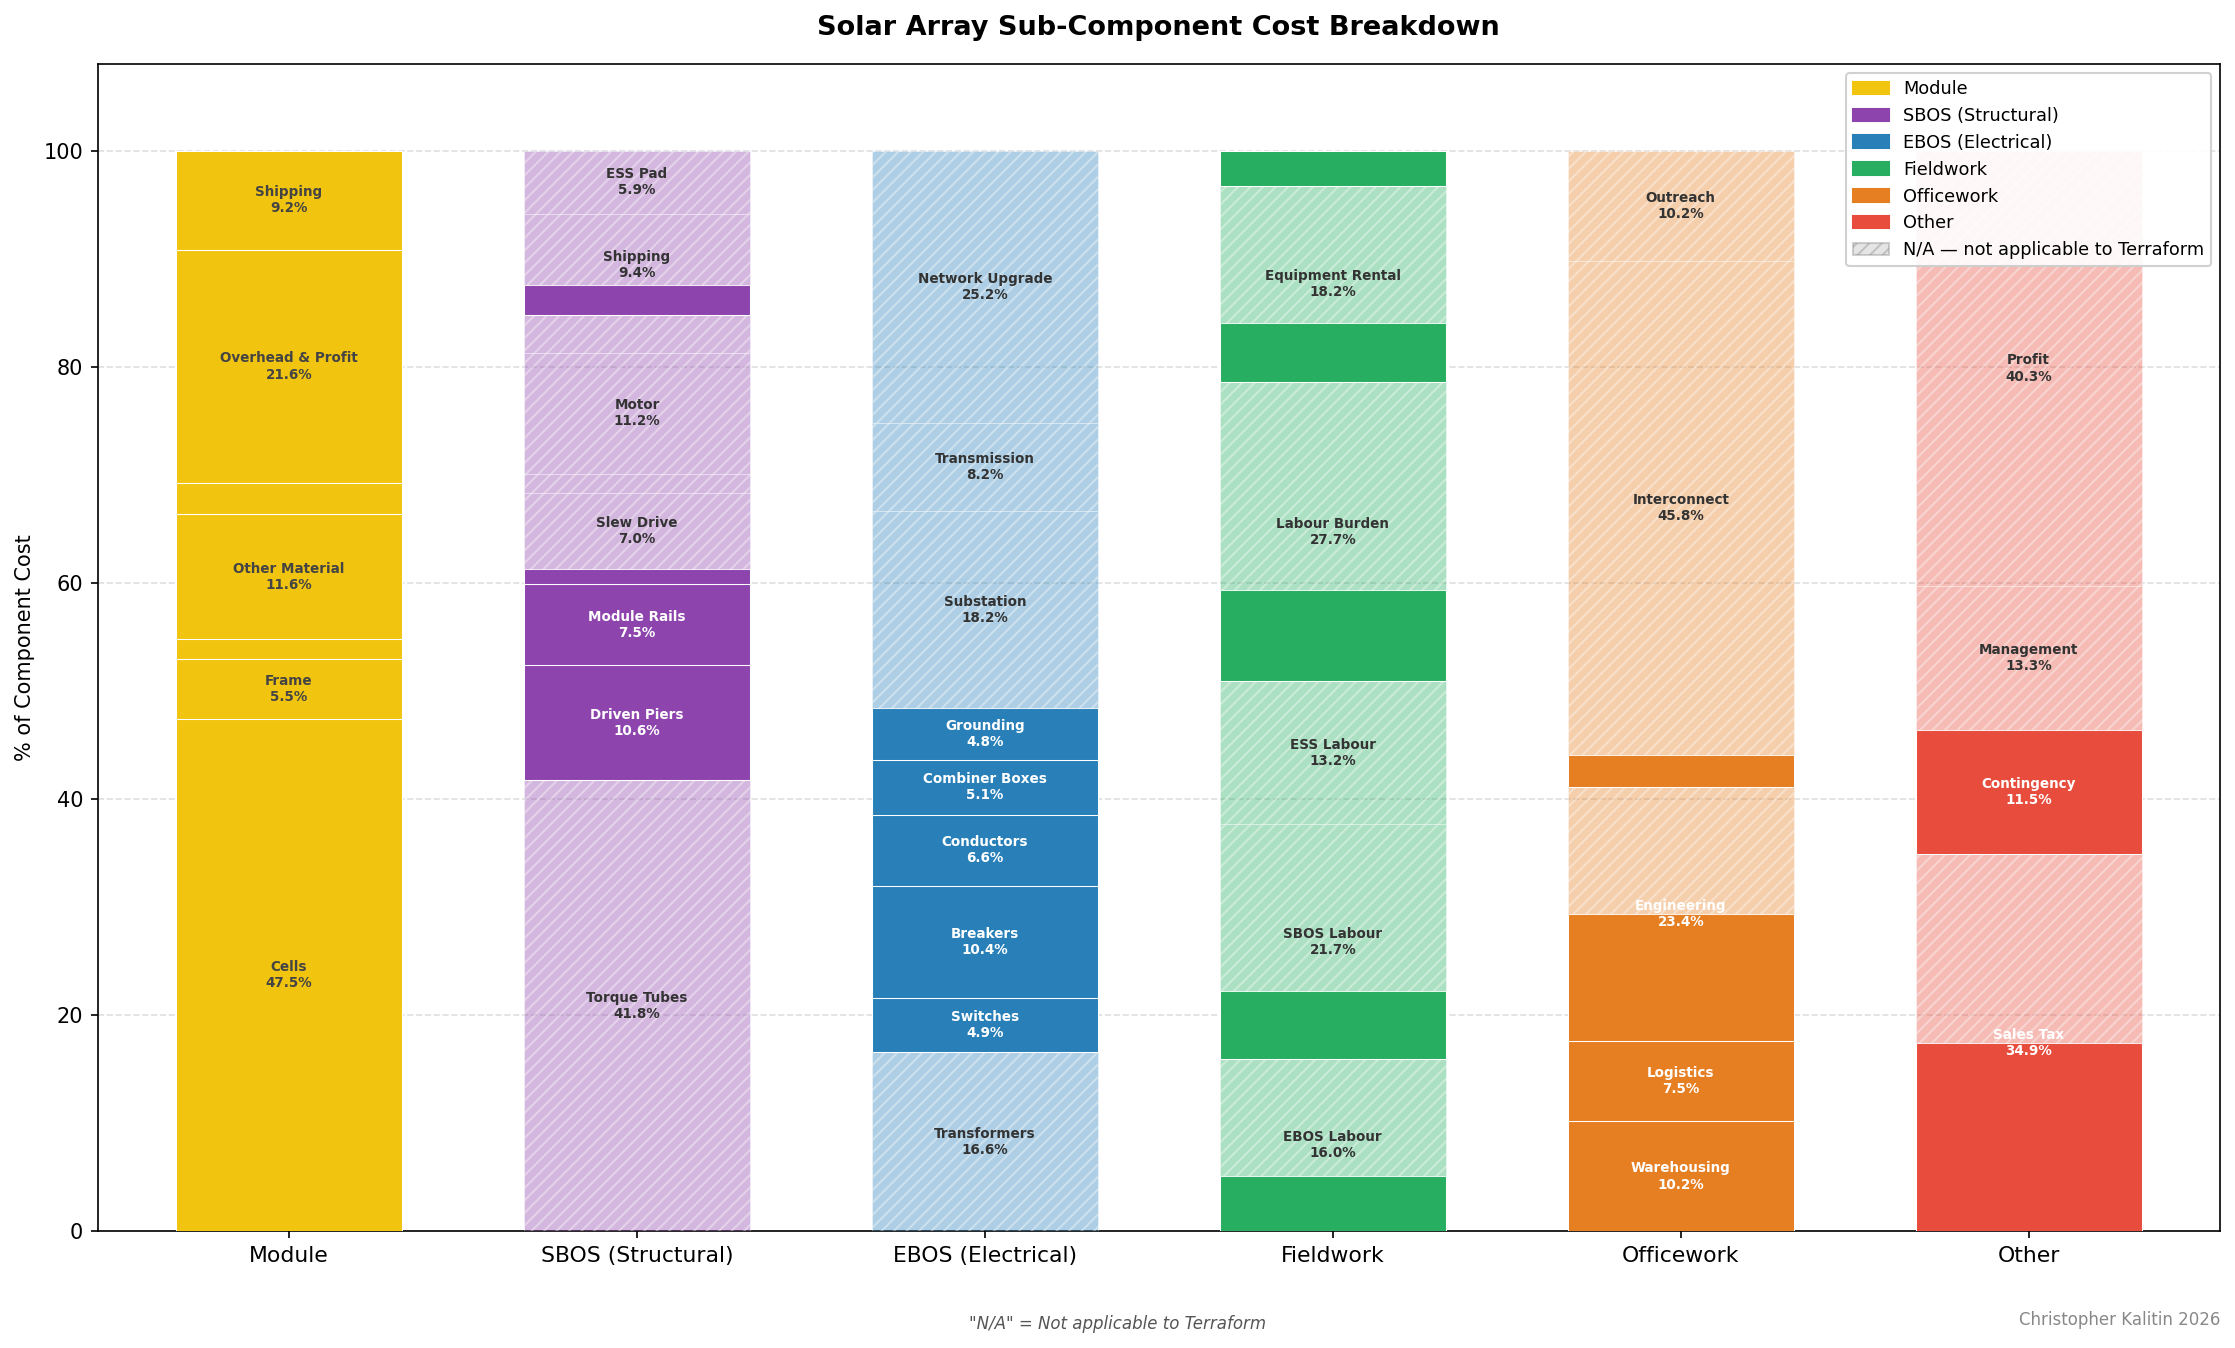
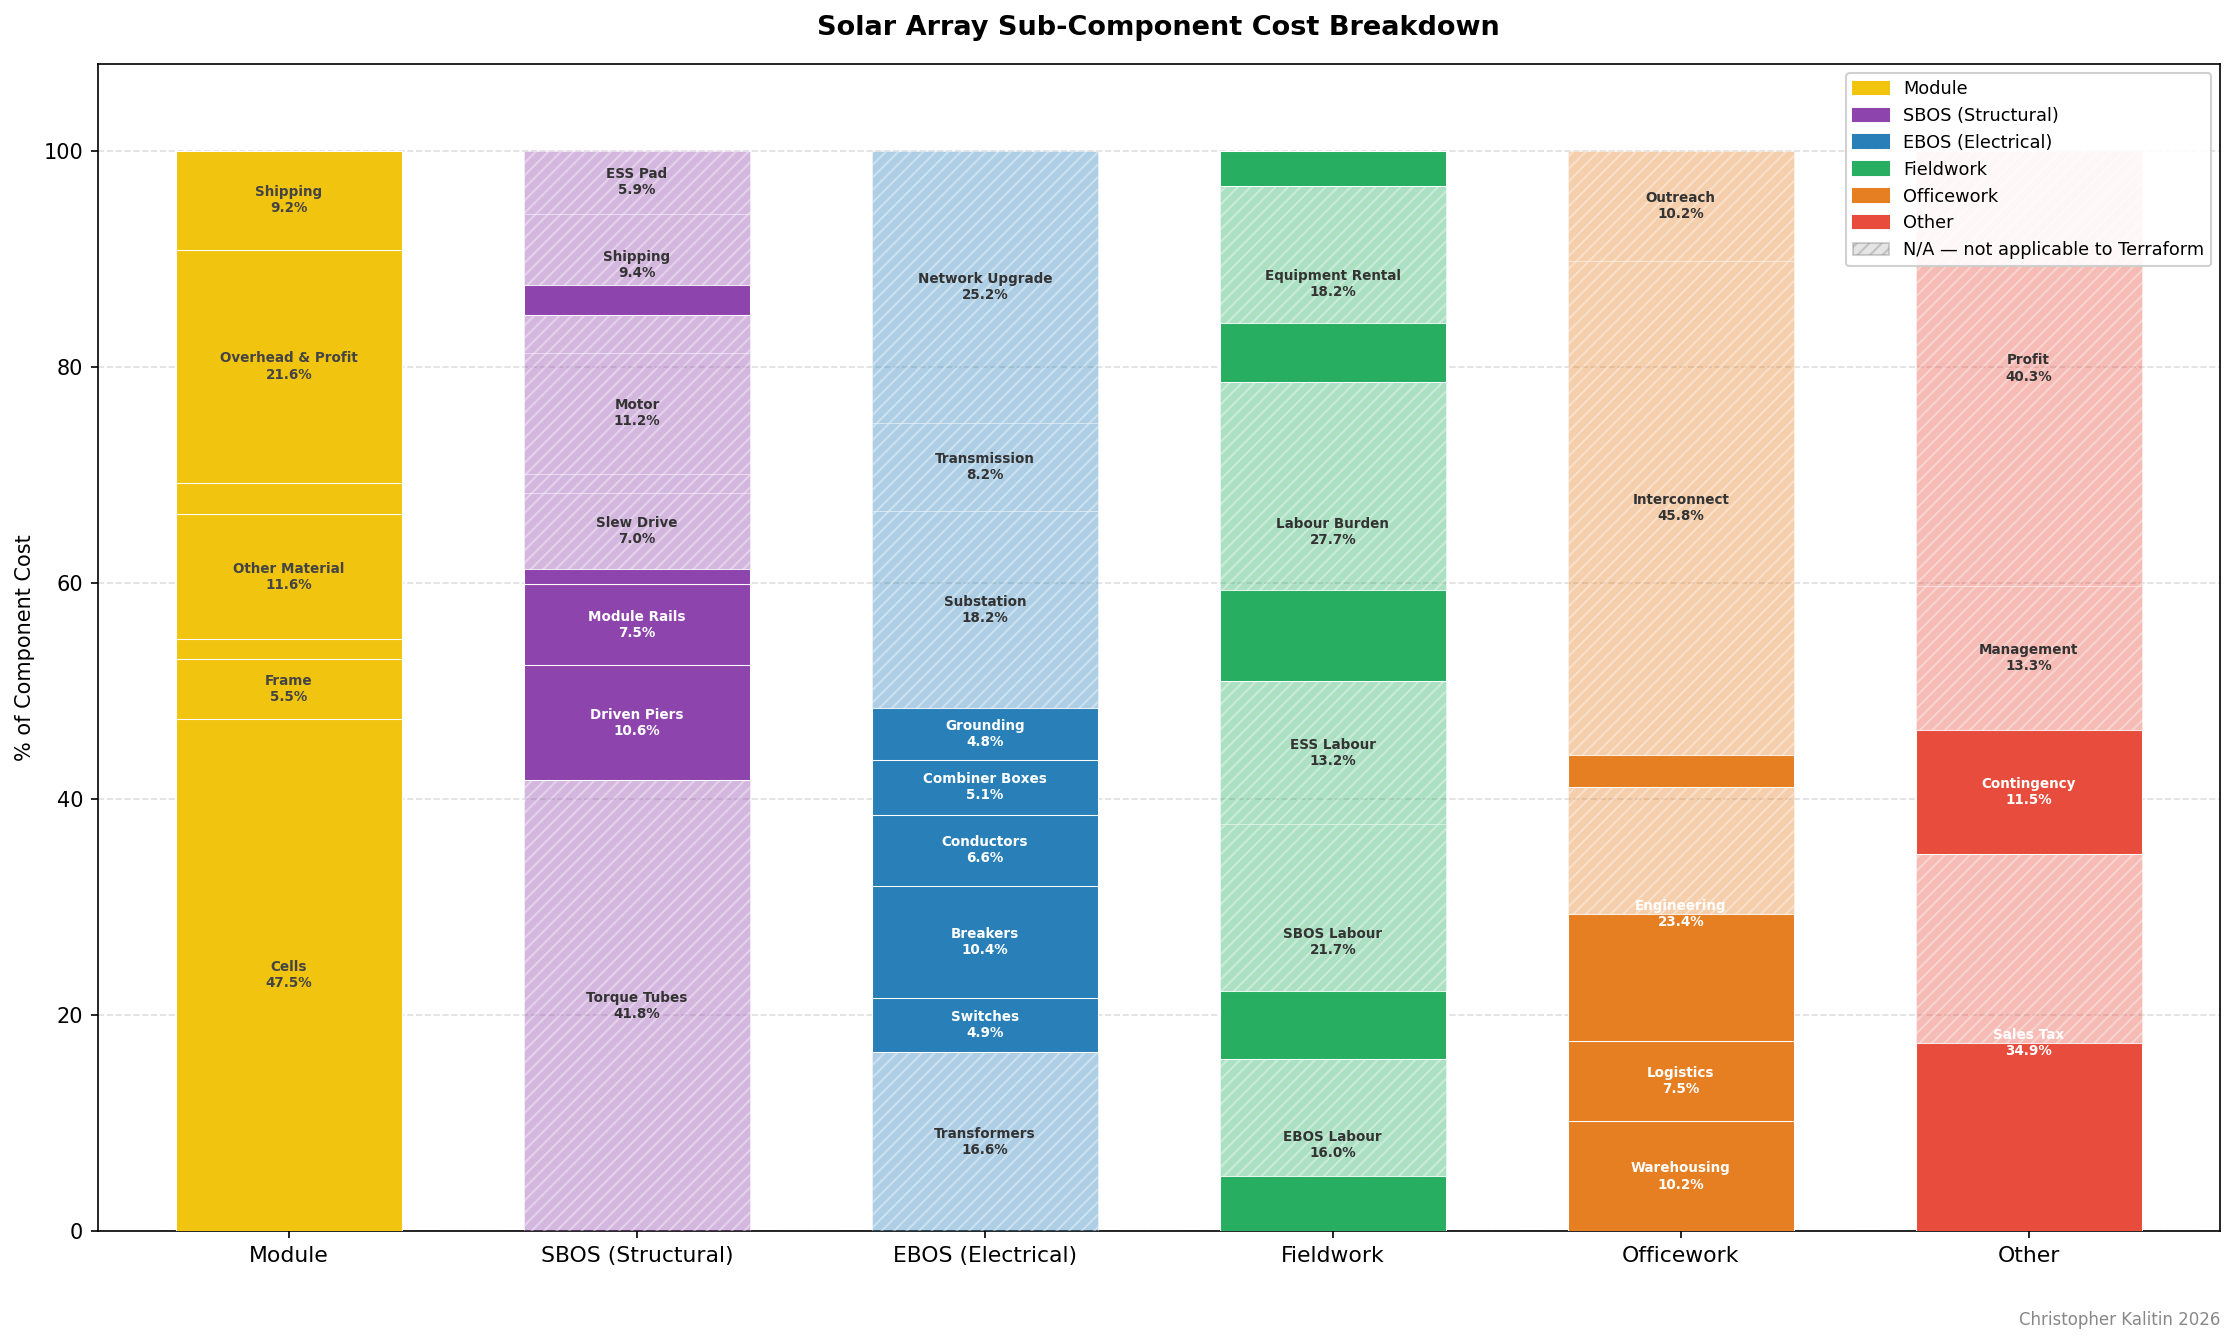
solar lcoe

diff --git a/Terraformer-Economics/solar/solar_lcoe.py b/Terraformer-Economics/solar/solar_lcoe.py
@@ -1,0 +1,141 @@
+import matplotlib.pyplot as plt
+import os
+
+output_dir = os.path.join(os.path.dirname(__file__), 'results')
+os.makedirs(output_dir, exist_ok=True)
+
+AUTHOR = 'Christopher Kalitin 2026'
+
+# ─── Shared parameters ────────────────────────────────────────────────────────
+YEARS          = 25
+SOLAR_RESOURCE = 2000     # kWh/m²/yr
+ARRAY_SIZE_KW  = 1000     # kW
+OPEX_PER_KW    = 5.89     # $/kW/year
+
+# Terraform array costs
+ARRAY_COST_CURRENT  = 654   # $/kW
+ARRAY_COST_TERMINAL = 254   # $/kW
+
+# Standard utility array
+ARRAY_COST_UTILITY  = 1277  # $/kW
+DISCOUNT_UTILITY    = 0.05  # 5%
+
+annual_energy = ARRAY_SIZE_KW * SOLAR_RESOURCE   # kWh/year
+
+# ─── Helpers ──────────────────────────────────────────────────────────────────
+def crf(discount_rate):
+    return 1 / YEARS if discount_rate == 0 else \
+           discount_rate / (1 - (1 + discount_rate) ** -YEARS)
+
+def lcoe_parts(array_cost_kw, discount_rate=0.0, opex=True):
+    """Return (base_capex, discount_premium, opex) in $/MWh.
+    base_capex       = CAPEX at 0% discount
+    discount_premium = extra cost from applying the real discount rate
+    """
+    scale        = ARRAY_SIZE_KW / annual_energy * 1e3
+    base_capex   = array_cost_kw * crf(0.0)           * scale
+    total_capex  = array_cost_kw * crf(discount_rate) * scale
+    discount_prem = total_capex - base_capex
+    opex_         = OPEX_PER_KW * scale if opex else 0.0
+    return base_capex, discount_prem, opex_
+
+# ─── Cases: (label, base_capex, discount_premium, opex, note) ────────────────
+cases = [
+    ('Standard Utility\nSolar',
+     *lcoe_parts(ARRAY_COST_UTILITY, DISCOUNT_UTILITY, opex=True),
+     f'${ARRAY_COST_UTILITY}/kW · {DISCOUNT_UTILITY:.0%} discount rate'),
+
+    ('Terraform\nCurrent',
+     *lcoe_parts(ARRAY_COST_CURRENT, 0.0, opex=True),
+     f'${ARRAY_COST_CURRENT}/kW · 0% discount rate'),
+
+    ('Terraform\nTerminal',
+     *lcoe_parts(ARRAY_COST_TERMINAL, 0.0, opex=True),
+     f'${ARRAY_COST_TERMINAL}/kW · 0% discount rate'),
+
+    ('Terraform\nTerminal (No OPEX)',
+     *lcoe_parts(ARRAY_COST_TERMINAL, 0.0, opex=False),
+     f'${ARRAY_COST_TERMINAL}/kW · 0% discount rate · no OPEX'),
+]
+
+labels        = [c[0] for c in cases]
+capex_vals    = [c[1] for c in cases]
+discount_vals = [c[2] for c in cases]
+opex_vals     = [c[3] for c in cases]
+totals        = [c[1] + c[2] + c[3] for c in cases]
+notes         = [c[4] for c in cases]
+
+CAPEX_COLOR    = '#2980b9'
+DISCOUNT_COLOR = '#8e44ad'
+OPEX_COLOR     = '#e74c3c'
+
+SHARED_NOTE = (f'Lifetime: {YEARS} yr  ·  Solar resource: {SOLAR_RESOURCE:,} kWh/m²/yr  ·  '
+               f'Array: {ARRAY_SIZE_KW:,} kW  ·  OPEX: ${OPEX_PER_KW}/kW/yr')
+
+# ─── Drawing function ─────────────────────────────────────────────────────────
+def draw_lcoe_chart(cases, title, filename, figsize=(10, 6.5)):
+    labels        = [c[0] for c in cases]
+    capex_vals    = [c[1] for c in cases]
+    discount_vals = [c[2] for c in cases]
+    opex_vals     = [c[3] for c in cases]
+    totals        = [c[1] + c[2] + c[3] for c in cases]
+    notes         = [c[4] for c in cases]
+
+    fig, ax = plt.subplots(figsize=figsize, dpi=150)
+    bar_width = 0.45
+    xs = range(len(cases))
+
+    ax.bar(xs, capex_vals, width=bar_width, color=CAPEX_COLOR,
+           edgecolor='white', linewidth=0.6, label='CAPEX (0% discount)', zorder=3)
+    ax.bar(xs, discount_vals, bottom=capex_vals, width=bar_width, color=DISCOUNT_COLOR,
+           edgecolor='white', linewidth=0.6, label='Discount rate premium', zorder=3)
+    capex_tops = [c + d for c, d in zip(capex_vals, discount_vals)]
+    ax.bar(xs, opex_vals, bottom=capex_tops, width=bar_width, color=OPEX_COLOR,
+           edgecolor='white', linewidth=0.6, label='OPEX', zorder=3)
+
+    MIN_LABEL = 0.8
+    for i, (capex, disc, opex) in enumerate(zip(capex_vals, discount_vals, opex_vals)):
+        if capex >= MIN_LABEL:
+            ax.text(i, capex / 2, f'{capex:.2f}',
+                    ha='center', va='center', fontsize=8.5, color='white',
+                    fontweight='bold', zorder=4)
+        if disc >= MIN_LABEL:
+            ax.text(i, capex + disc / 2, f'{disc:.2f}',
+                    ha='center', va='center', fontsize=8.5, color='white',
+                    fontweight='bold', zorder=4)
+        if opex >= MIN_LABEL:
+            ax.text(i, capex + disc + opex / 2, f'{opex:.2f}',
+                    ha='center', va='center', fontsize=8.5, color='white',
+                    fontweight='bold', zorder=4)
+
+    for i, (total, note) in enumerate(zip(totals, notes)):
+        ax.text(i, total + 0.22, f'{total:.2f} $/MWh',
+                ha='center', va='bottom', fontsize=9, fontweight='bold', color='#333333')
+        ax.text(i, -1.8, note, ha='center', va='top', fontsize=6.5,
+                color='#666666', style='italic')
+
+    ax.set_xticks(list(xs))
+    ax.set_xticklabels(labels, fontsize=10)
+    ax.set_ylabel('LCOE ($/MWh)', fontsize=10)
+    ax.set_ylim(-3.5, max(totals) * 1.18)
+    ax.set_title(title, fontsize=13, fontweight='bold', pad=12)
+    ax.grid(True, axis='y', linestyle='--', alpha=0.4, zorder=0)
+    ax.set_axisbelow(True)
+    ax.axhline(0, color='#aaaaaa', linewidth=0.8)
+    ax.legend(fontsize=9.5, framealpha=0.9, edgecolor='#cccccc')
+
+    fig.text(0.01, 0.005, SHARED_NOTE, ha='left', fontsize=7, color='#666666', style='italic')
+    fig.text(0.99, 0.005, AUTHOR, ha='right', va='bottom', fontsize=8, color='#888888')
+
+    plt.tight_layout(rect=[0, 0.04, 1, 1])
+    plt.savefig(os.path.join(output_dir, filename), dpi=150, bbox_inches='tight')
+    plt.close(fig)
+    print(f'Saved: {filename}')
+
+# ─── Chart 1: all cases ───────────────────────────────────────────────────────
+draw_lcoe_chart(cases, 'Solar Array LCOE by Case', 'solar_lcoe.png')
+
+# ─── Chart 2: Terraform only ──────────────────────────────────────────────────
+terraform_cases = [c for c in cases if c[0].startswith('Terraform')]
+draw_lcoe_chart(terraform_cases, 'Terraform Solar Array LCOE',
+                'solar_lcoe_terraform.png', figsize=(8, 6.5))

diff --git a/Terraformer-Economics/solar/solar_opex.py b/Terraformer-Economics/solar/solar_opex.py
@@ -1,0 +1,122 @@
+import matplotlib.pyplot as plt
+import matplotlib.patches as mpatches
+import os
+
+output_dir = os.path.join(os.path.dirname(__file__), 'results')
+os.makedirs(output_dir, exist_ok=True)
+
+AUTHOR = 'Christopher Kalitin 2026'
+
+# ─── OPEX data: (component, % of total OPEX, terraform_fraction) ──────────────
+OPEX = [
+    ('Cleaning',         15.20, 0.50),
+    ('Inspection',        8.65, 0.50),
+    ('New BOS',           7.67, 0.50),
+    ('New Modules',       1.81, 1.00),
+    ('New Inverters',    13.95, 0.00),
+    ('Land Lease',       12.83, 0.00),
+    ('Property Tax',     11.72, 0.33),
+    ('Insurance',        17.71, 0.50),
+    ('Asset Management', 10.46, 0.50),
+]
+
+COLORS = {
+    'Cleaning':          '#3498db',
+    'Inspection':        '#1abc9c',
+    'New BOS':           '#8e44ad',
+    'New Modules':       '#f1c40f',
+    'New Inverters':     '#e74c3c',
+    'Land Lease':        '#27ae60',
+    'Property Tax':      '#95a5a6',
+    'Insurance':         '#e67e22',
+    'Asset Management':  '#2c3e50',
+}
+
+# ─── Bar chart ────────────────────────────────────────────────────────────────
+fig, ax = plt.subplots(figsize=(9, 6.5), dpi=150)
+
+bar_width = 0.45
+x_std, x_terr = 0, 1
+bottom_std = bottom_terr = 0.0
+legend_handles = []
+
+for comp, pct, tf_frac in OPEX:
+    color    = COLORS[comp]
+    solid_h  = pct * tf_frac
+    na_h     = pct * (1 - tf_frac)
+
+    # Standard bar: solid (terraform) portion
+    if solid_h > 0:
+        ax.bar(x_std, solid_h, bottom=bottom_std, color=color, width=bar_width,
+               edgecolor='white', linewidth=0.6, zorder=3)
+        if solid_h >= 2.5:
+            ax.text(x_std, bottom_std + solid_h / 2, f'{solid_h:.1f}%',
+                    ha='center', va='center', fontsize=7, color='white',
+                    fontweight='bold', zorder=4)
+    bottom_std += solid_h
+
+    # Standard bar: N/A (hatched) portion
+    if na_h > 0:
+        ax.bar(x_std, na_h, bottom=bottom_std, color=color, width=bar_width,
+               alpha=0.38, edgecolor='white', linewidth=0.6, hatch='////', zorder=3)
+        if na_h >= 2.5:
+            ax.text(x_std, bottom_std + na_h / 2, f'{na_h:.1f}%',
+                    ha='center', va='center', fontsize=7, color=color,
+                    fontweight='bold', zorder=4)
+    bottom_std += na_h
+
+    # Terraform bar: solid only
+    if solid_h > 0:
+        ax.bar(x_terr, solid_h, bottom=bottom_terr, color=color, width=bar_width,
+               edgecolor='white', linewidth=0.6, zorder=3)
+        if solid_h >= 2.5:
+            ax.text(x_terr, bottom_terr + solid_h / 2, f'{solid_h:.1f}%',
+                    ha='center', va='center', fontsize=7, color='white',
+                    fontweight='bold', zorder=4)
+    bottom_terr += solid_h
+
+    legend_handles.append(mpatches.Patch(color=color, label=comp))
+
+legend_handles.append(mpatches.Patch(
+    facecolor='#aaaaaa', alpha=0.38, hatch='////', edgecolor='#888888',
+    label='N/A (not applicable to Terraform)'
+))
+
+# Totals above bars
+offset = 0.8
+ax.text(x_std,  bottom_std  + offset, f'{bottom_std:.1f}%',
+        ha='center', va='bottom', fontsize=9.5, fontweight='bold', color='#333333')
+ax.text(x_terr, bottom_terr + offset, f'{bottom_terr:.1f}%',
+        ha='center', va='bottom', fontsize=9.5, fontweight='bold', color='#333333')
+
+# Savings bracket
+savings = bottom_std - bottom_terr
+mid_y   = (bottom_terr + bottom_std) / 2
+ax.annotate('', xy=(x_std - bar_width / 2 - 0.02, bottom_std),
+            xytext=(x_std - bar_width / 2 - 0.02, bottom_terr),
+            arrowprops=dict(arrowstyle='<->', color='#555555', lw=1.2))
+ax.text(x_std - bar_width / 2 - 0.08, mid_y,
+        f'Savings\n{savings:.1f}%', ha='right', va='center',
+        fontsize=8, color='#555555', style='italic')
+
+ax.set_xticks([x_std, x_terr])
+ax.set_xticklabels(['Standard Utility OPEX', 'Terraform OPEX'], fontsize=10.5)
+ax.set_ylabel('% of Total OPEX', fontsize=10)
+ax.set_ylim(0, max(bottom_std, bottom_terr) * 1.12)
+ax.set_xlim(-0.65, 1.5)
+ax.set_title('Solar Array OPEX Breakdown: Standard vs Terraform',
+             fontsize=12, fontweight='bold', pad=12)
+ax.grid(True, axis='y', linestyle='--', alpha=0.4, zorder=0)
+ax.set_axisbelow(True)
+
+ax.legend(handles=legend_handles, loc='upper right', fontsize=8,
+          framealpha=0.9, edgecolor='#cccccc')
+
+fig.text(0.99, 0.01, AUTHOR, ha='right', va='bottom', fontsize=8, color='#888888')
+fig.text(0.01, 0.01, "Land price factored into array capex, not opex", ha='left', va='bottom', fontsize=8, color='#888888')
+
+plt.tight_layout(rect=[0, 0.04, 1, 1])
+plt.savefig(os.path.join(output_dir, 'solar_opex_breakdown.png'),
+            dpi=150, bbox_inches='tight')
+plt.close(fig)
+print('Saved: solar_opex_breakdown.png')

diff --git a/Terraformer-Economics/solar/array-cost-breakdown/bar_chart_percentage.py b/Terraformer-Economics/solar/array-cost-breakdown/bar_chart_percentage.py
@@ -21,7 +21,7 @@ Well, just set it as 1 to get percent.
 
 
 # Path to the image file to select points from (relative to this script's directory)
-image_file = os.path.join(os.path.dirname(__file__), 'fieldwork.jpg')  # Change as needed
+image_file = os.path.join(os.path.dirname(__file__), 'opex.jpg')  # Change as needed
 
 # Maximum pixel dimensions for normalization (will be set from image)
 max_x = None  # Will be set after loading image

diff --git a/Terraformer-Economics/solar/solar_subcomponent_breakdown.py b/Terraformer-Economics/solar/solar_subcomponent_breakdown.py
@@ -78,8 +78,6 @@ handles.append(mpatches.Patch(
 ax.legend(handles=handles, loc='upper right', fontsize=8.5,
           framealpha=0.9, edgecolor='#cccccc')
 
-fig.text(0.5,  0.01, '"N/A" = Not applicable to Terraform',
-         ha='center', fontsize=8, color='#555555', style='italic')
 fig.text(0.99, 0.01, AUTHOR, ha='right', va='bottom', fontsize=8, color='#888888')
 
 plt.tight_layout(rect=[0, 0.04, 1, 1])
